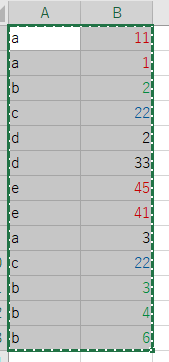
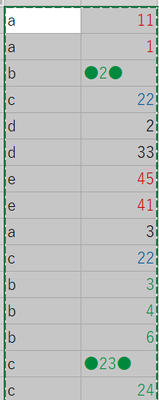
fix captioon and image

diff --git a/tools/Nayose/index.html b/tools/Nayose/index.html
@@ -36,7 +36,7 @@
             <div class="arrow"></div>
             <div class="after"><img src = "./image/img_nayose_after.png"></div>
         </div>
-        <p><span style="color: red;">並び</span>、<span style="color: blue;">重複</span>、<span style="color: green;">連続</span>を整理</p>
+        <p>ノンブルの<span style="color: red;">並び</span>、<span style="color: blue;">重複</span>、<span style="color: green;">連続</span>を整理。記号での装飾にも対応。</p>
     </div>
     <ul>
         <li><code>項目</code>列の情報で名寄せします。</li>
@@ -45,7 +45,6 @@
             <li>ノンブル部分のソート・重複整理</li>
             <li>3以上連続するノンブル部分のハイフネーション</li>
             <div class="notation">連続するノンブルは<code>&ndash;</code>（enダーシ<code>U+2013</code>）でつなぎます。</div>
-            <div class="notation">太字にするなどの目的でノンブルに数字以外が含まれていた場合、上記2点の整形は行いません。</div>
             <div class="notation">カンマは半角に統一されます。</div>
         </ul>
         <li>このツールはソートを行いません。</li>
